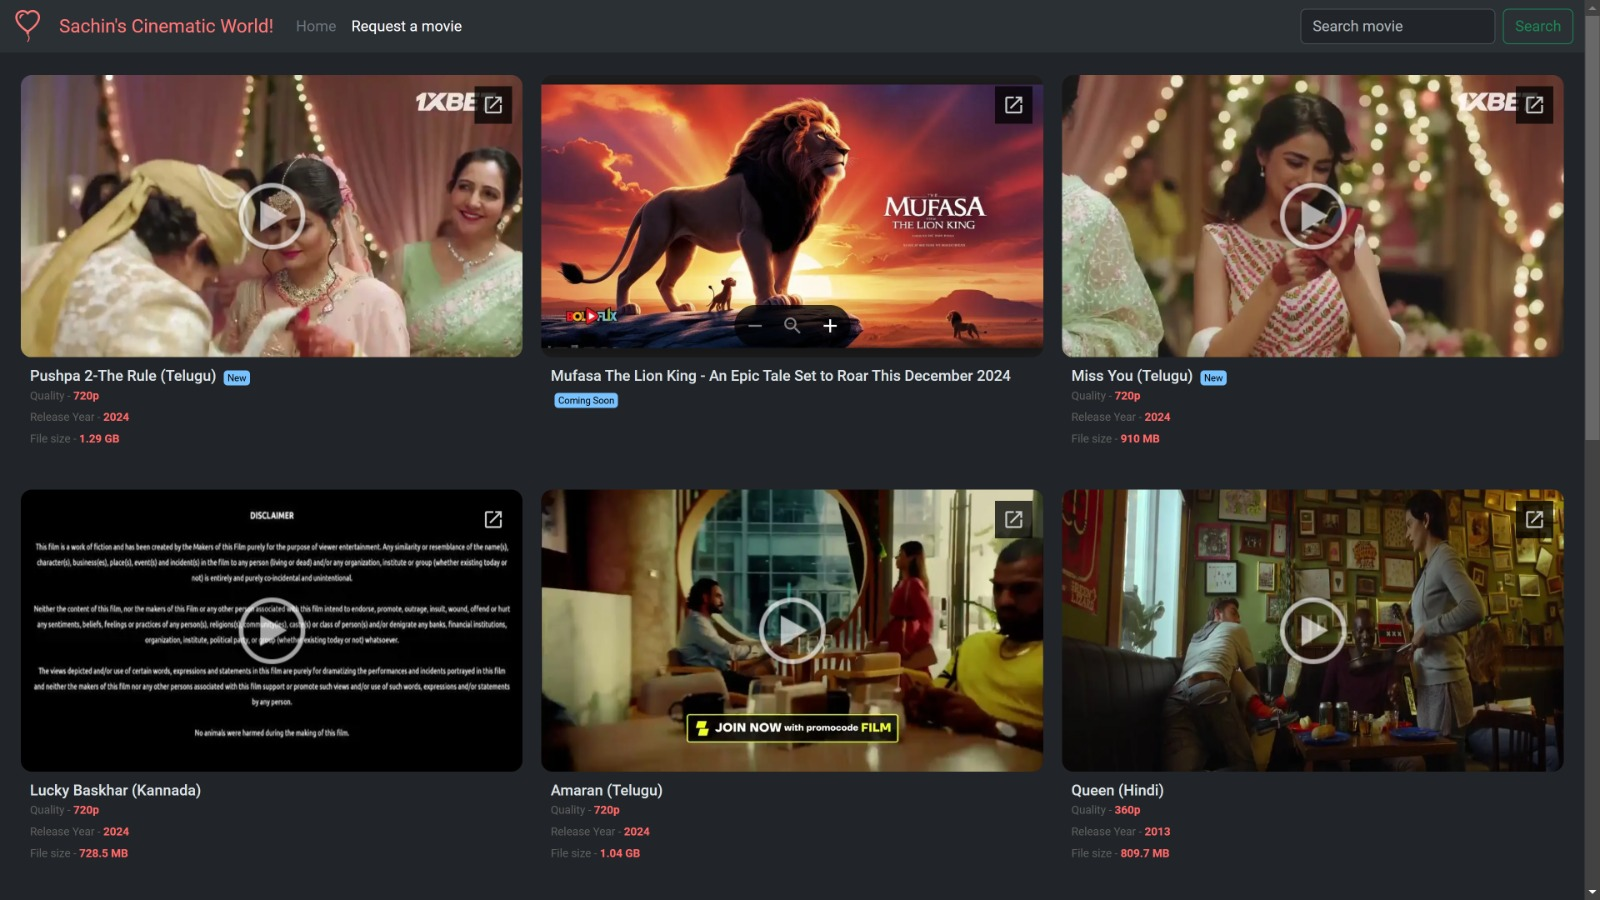
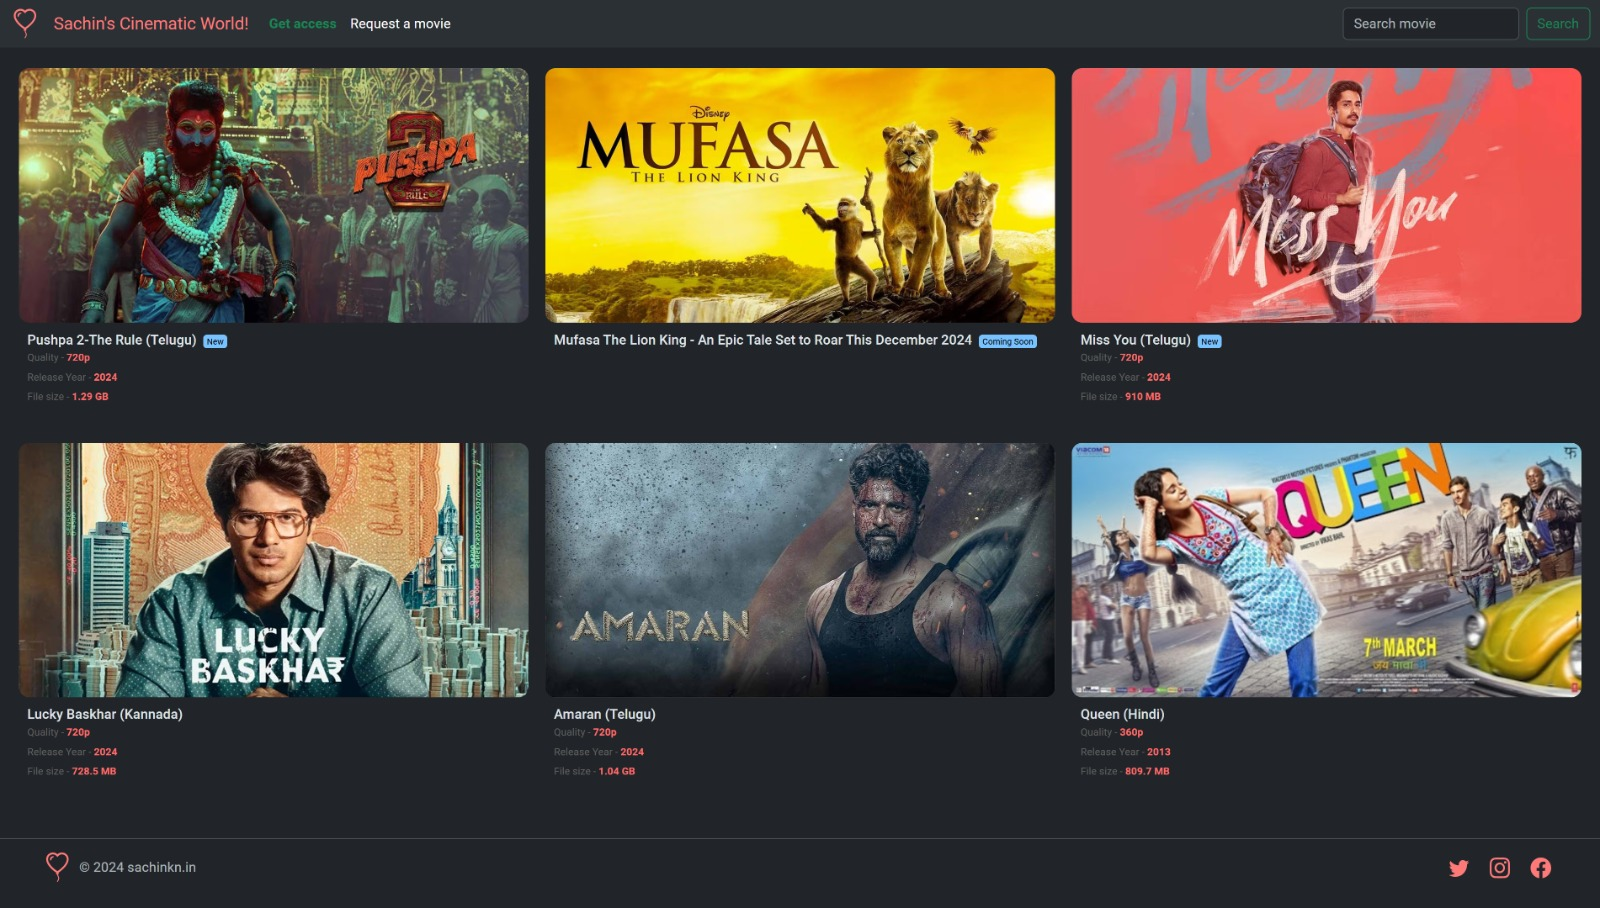
did major changes for full screen view

diff --git a/scripts/load-videos.js b/scripts/load-videos.js
@@ -16,13 +16,18 @@ async function loadVideos() {
             // Create video thumbnail div
             const thumbnailDiv = document.createElement('div');
             thumbnailDiv.classList.add('video-thumbnail');
+            
+            if (video['video-link'])
+                thumbnailDiv.onclick = function() {
+                    playVideo(video['video-link'], video['video-title']);
+                };
 
-            // Create iframe element
-            const iframe = document.createElement('iframe');
-            // iframe.src = "https://drive.google.com/file/d/1K-4YiqnhBMFqG8zOmixFJV0ZGUM10n7h/preview";
-            iframe.src = `https://drive.google.com/file/d/${video["video-link"]}/preview`;
-            iframe.allow = "autoplay";
-            thumbnailDiv.appendChild(iframe);
+            // Create img element
+            const img = document.createElement('img');
+            img.src = `${video["preview-image"]}`;
+            img.alt = `${video["preview-image"]}`;
+
+            thumbnailDiv.appendChild(img);
 
             // Create video details div
             const detailsDiv = document.createElement('div');
@@ -36,8 +41,8 @@ async function loadVideos() {
                         ${video["title-tag"] ? `<span class="title-tag">${video["title-tag"]}</span>` : ""}
                     </p>
                     <div class="video-info">
-                        ${video.quality ? `<p class="channel-name">Quality - <strong>${video.quality}</strong></p>` : ""}
-                        ${video["release-year"] ? `<p class="video-views">Release Year - <strong>${video["release-year"]}</strong></p>` : ""}
+                        ${video["quality"] ? `<p class="video-quality">Quality - <strong>${video["quality"]}</strong></p>` : ""}
+                        ${video["release-year"] ? `<p class="video-year">Release Year - <strong>${video["release-year"]}</strong></p>` : ""}
                         ${video["file-size"] ? `<p class="video-size">File size - <strong>${video["file-size"]}</strong></p>` : ""}
                     </div>
                 </div>
@@ -57,3 +62,79 @@ async function loadVideos() {
 
 // Load videos on page load
 loadVideos();
+
+// function playVideo(videoKey) {
+//     const url = `https://drive.google.com/file/d/${videoKey}/preview`;
+//     const iframeHtml = `<iframe src="${url}" width="100%" height="100%" frameborder="0" style="margin:0; padding: 0" allow="autoplay; encrypted-media" allowfullscreen></iframe>`;
+
+//     // Open a new tab and load the iframe
+//     const newTab = window.open();
+//     newTab.document.write(iframeHtml);
+// }
+
+function playVideo(videoKey, videoTitle) {
+    const url = `https://drive.google.com/file/d/${videoKey}/preview`;
+    const iframeHtml = `
+        <!DOCTYPE html>
+        <html lang="en">
+        <head>
+            <meta charset="UTF-8">
+            <meta name="viewport" content="width=device-width, initial-scale=1.0">
+            <title>${videoTitle}</title>
+            <link rel="icon" href="https://github.com/eternalGatherings/movies/blob/master/images/logo.svg" type="image/png">
+            <style>
+                body {
+                    margin: 0;
+                    padding: 0;
+                    display: flex;
+                    justify-content: center;
+                    align-items: center;
+                    background-color: #000;
+                    height: 100vh;
+                    overflow: hidden;
+                }
+                .video-container {
+                    position: relative;
+                    width: 80vw; /* 80% of viewport width */
+                    height: 0;
+                    padding-bottom: 45%; /* 16:9 aspect ratio (9 / 16 = 0.5625 => 56.25% padding) */
+                    background-color: black;
+                }
+                iframe {
+                    position: absolute;
+                    top: 0;
+                    left: 0;
+                    width: 100%;
+                    height: 100%;
+                    border: none;
+                }
+                .close-btn {
+                    position: absolute;
+                    top: 9px;
+                    right: 9px;
+                    background-color: #fff;
+                    border: none;
+                    padding: 14px 18px;
+                    cursor: pointer;
+                    font-size: 16px;
+                    border-radius: 5px;
+                }
+                .close-btn:hover {
+                    background-color: #ccc;
+                }
+            </style>
+        </head>
+        <body>
+            <div class="video-container">
+                <iframe src="${url}" allow="autoplay; encrypted-media" allowfullscreen></iframe>
+                <button class="close-btn" onclick="window.close()">X</button>
+            </div>
+        </body>
+        </html>
+    `;
+
+    // Open a new tab and load the iframe
+    const newTab = window.open();
+    newTab.document.write(iframeHtml);
+}
+

diff --git a/index.html b/index.html
@@ -4,8 +4,9 @@
 <head>
   <meta charset="UTF-8">
   <meta name="viewport" content="width=device-width, initial-scale=1.0">
-  <title>Sachin's Cinematic World!</title>
 
+  <title>Sachin's Cinematic World!</title>
+  <link rel="icon" href="./images/logo.svg" type="image/png">
 
   <meta name="msapplication-TileImage" content="image_url">
 
@@ -13,7 +14,8 @@
   <meta property="og:title" content="Sachin's Cinematic World!">
   <meta property="og:description" content="Watch your favorite movies on Sachin's Cinematic World!">
 
-  <meta property="og:image" itemprop="image" content="https://github.com/eternalGatherings/movies/blob/master/images/preview.jpeg?raw=true">
+  <meta property="og:image" itemprop="image"
+    content="https://github.com/eternalGatherings/movies/blob/master/images/preview.jpeg?raw=true">
 
   <meta property="og:type" content="website">
   <meta property="og:image:type" content="image/png">
@@ -29,10 +31,11 @@
 
   <link href="https://fonts.googleapis.com/css2?family=Roboto:wght@400;500;700&display=swap" rel="stylesheet">
   <link href="https://fonts.googleapis.com/css2?family=Markazi+Text:wght@400..700&display=swap" rel="stylesheet">
-  <link href="https://cdn.jsdelivr.net/npm/bootstrap@5.3.3/dist/css/bootstrap.min.css" rel="stylesheet" crossorigin="anonymous">
+  <link href="https://cdn.jsdelivr.net/npm/bootstrap@5.3.3/dist/css/bootstrap.min.css" rel="stylesheet"
+    crossorigin="anonymous">
 
-  <link rel="stylesheet" href="styles/videos-grid.css">
-  <link rel="stylesheet" href="styles/generic.css">
+  <link rel="stylesheet" href="./styles/generic.css">
+  <link rel="stylesheet" href="./styles/videos-grid.css">
 </head>
 
 <body>
@@ -40,7 +43,7 @@
     <nav class="mb-4 navbar navbar-expand-lg bg-body-tertiary">
       <div class="container-fluid">
         <a href="/" class="d-flex align-items-center mb-lg-0 text-white text-decoration-none">
-          <img src="./images/film.svg" alt="logo">
+          <img src="./images/logo.svg" alt="logo">
         </a>
         <a class="navbar-brand mx-3" style="color: #ff7979;" href="/">Sachin's Cinematic World!</a>
         <button class="navbar-toggler" type="button" data-bs-toggle="collapse" data-bs-target="#navbarScroll"
@@ -68,12 +71,13 @@
     </nav>
   </section>
   <section class="Body">
-    <div class="video-grid" id="videoGrid"></div>
+    <div class="video-grid" id="videoGrid">
+    </div>
   </section>
   <section class="Footer">
     <footer class="d-flex flex-wrap justify-content-between align-items-center py-3 my-4 border-top">
       <div class="col-md-4 d-flex align-items-center">
-        <img class="me-2" src="./images/film.svg" alt="logo">
+        <img class="me-2" src="./images/logo.svg" alt="logo">
         <span class="mb-3 mb-md-0 text-body-secondary">© 2024 sachinkn.in</a></span>
       </div>
 
@@ -97,7 +101,8 @@
   </section>
 
   <script src="./scripts/load-videos.js"></script>
-  <script src="https://cdn.jsdelivr.net/npm/bootstrap@5.3.3/dist/js/bootstrap.bundle.min.js" crossorigin="anonymous"></script>
+  <script src="https://cdn.jsdelivr.net/npm/bootstrap@5.3.3/dist/js/bootstrap.bundle.min.js"
+    crossorigin="anonymous"></script>
 </body>
 
 </html>

diff --git a/styles/videos-grid.css b/styles/videos-grid.css
@@ -9,12 +9,10 @@
   padding-bottom: 40px;
 }
 
-.thumbnail, iframe {
-  position: absolute;
+.video-thumbnail img {
   top: 0;
   left: 0;
   width: 100%;
-  height: 100%;
   border: 0;
   border-radius: 12px;
   border-style: none;
@@ -23,12 +21,6 @@
 .video-details {
   display: grid;
   grid-template-columns: 1fr;
-}
-
-.profile-pic {
-  padding-top: 5px;
-  width: 100%;
-  border-radius: 50%;
 }
 
 .details {
@@ -44,31 +36,12 @@
   line-height: 20px;
 }
 
-.channel-name,
-.video-views,
+.video-quality,
+.video-year,
 .video-size {
   font-size: 12px;
   margin-bottom: 5px;
   color: rgb(96, 96, 96);
-}
-
-.video-thumbnail {
-  position: relative;
-  width: 100%; /* This can be any desired width */
-  padding-bottom: 56.25%; /* 16:9 aspect ratio */
-  height: 0;
-  overflow: hidden;
-}
-
-.play-time {
-  background-color: black;
-  color: #fff;
-  font-size: 12px;
-  position: absolute;
-  bottom: 10px;
-  right: 10px;
-  padding: 2px 3px;
-  border-radius: 3px;
 }
 
 .video-info strong {
